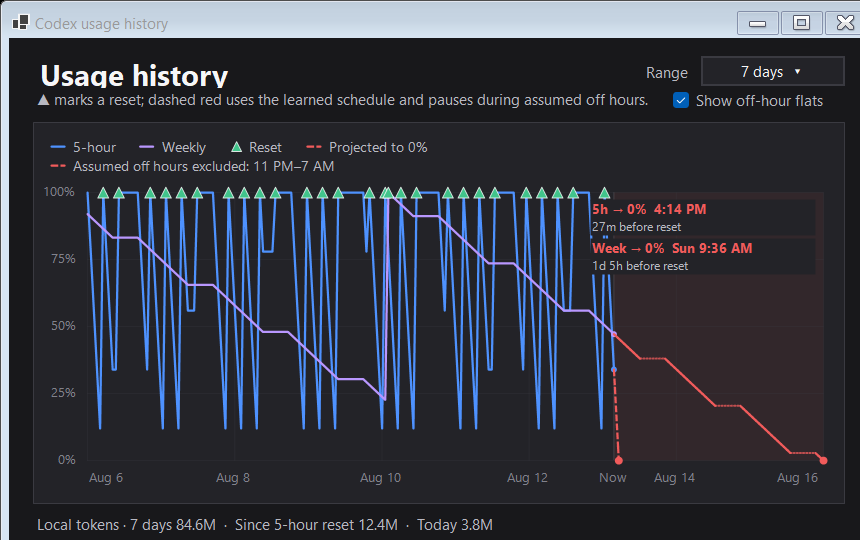
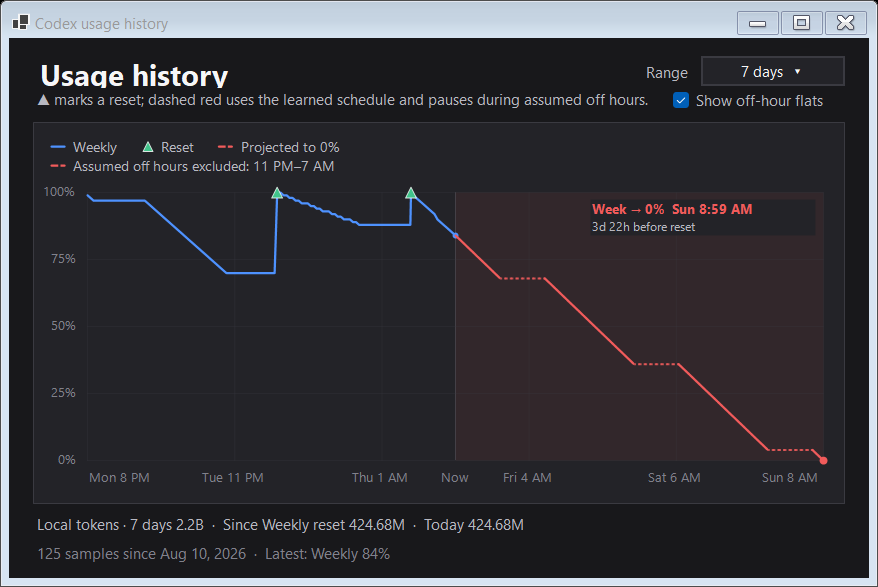
Use realistic usage history preview

diff --git a/src/CodexUsage.App/UI/PreviewRenderer.cs b/src/CodexUsage.App/UI/PreviewRenderer.cs
@@ -47,37 +47,86 @@ internal static class PreviewRenderer
 
         if (args[0].Equals("--render-history", StringComparison.OrdinalIgnoreCase))
         {
-            var historyNow = DateTimeOffset.UtcNow;
-            var start = historyNow.AddDays(-7);
-            var samples = Enumerable.Range(0, (7 * 24) + 1)
-                .Select(index =>
+            var historyNow = DateTimeOffset.Now;
+            var localDate = historyNow.Date;
+            var currentReset = AtLocalTime(localDate.AddHours(7));
+            if (currentReset > historyNow)
+            {
+                currentReset = AtLocalTime(localDate.AddDays(-1).AddHours(7));
+            }
+
+            var previousReset = AtLocalTime(currentReset.Date.AddDays(-1).AddHours(7));
+            var start = historyNow.AddHours(-66);
+            var activitySchedule = new UsageActivitySchedule(
+                Enumerable.Range(7, 15),
+                TimeZoneInfo.Local);
+            var sampleTimes = Enumerable.Range(0, 123)
+                .Select(index => start.AddTicks(
+                    ((historyNow - start).Ticks * index) / 122))
+                .Append(previousReset)
+                .Append(currentReset)
+                .Distinct()
+                .OrderBy(timestamp => timestamp)
+                .ToArray();
+            var availableBeforePreviousReset = activitySchedule
+                .GetActiveDuration(start, previousReset)
+                .TotalHours;
+            var availableBeforeCurrentReset = activitySchedule
+                .GetActiveDuration(previousReset, currentReset)
+                .TotalHours;
+            var activeSinceCurrentReset = activitySchedule
+                .GetActiveDuration(currentReset, historyNow)
+                .TotalHours;
+            availableBeforePreviousReset = Math.Max(1d, availableBeforePreviousReset);
+            availableBeforeCurrentReset = Math.Max(1d, availableBeforeCurrentReset);
+            activeSinceCurrentReset = Math.Max(1d, activeSinceCurrentReset);
+            var samples = sampleTimes
+                .Select(recordedAt =>
                 {
-                    var recordedAt = start.AddHours(index);
-                    var primaryWindowStart = index - (index % 5);
-                    var primaryActiveHours = Enumerable.Range(primaryWindowStart + 1, index - primaryWindowStart)
-                        .Count(hour => IsPreviewActiveHour(start.AddHours(hour)));
-                    var primaryAvailable = 100d - (primaryActiveHours * 22d);
-                    var weeklyWindowStart = index >= 96 ? 96 : 0;
-                    var weeklyActiveHours = Enumerable.Range(weeklyWindowStart + 1, index - weeklyWindowStart)
-                        .Count(hour => IsPreviewActiveHour(start.AddHours(hour)));
-                    var weeklyAvailable = (index >= 96 ? 100d : 92d) - (weeklyActiveHours * 1.1d);
+                    double availablePercent;
+                    DateTimeOffset resetsAt;
+                    if (recordedAt < previousReset)
+                    {
+                        var activeHours = activitySchedule
+                            .GetActiveDuration(start, recordedAt)
+                            .TotalHours;
+                        availablePercent = 99d - (29d * activeHours / availableBeforePreviousReset);
+                        resetsAt = previousReset;
+                    }
+                    else if (recordedAt < currentReset)
+                    {
+                        var activeHours = activitySchedule
+                            .GetActiveDuration(previousReset, recordedAt)
+                            .TotalHours;
+                        availablePercent = 100d - (12d * activeHours / availableBeforeCurrentReset);
+                        resetsAt = previousReset.AddDays(7);
+                    }
+                    else
+                    {
+                        var activeHours = activitySchedule
+                            .GetActiveDuration(currentReset, recordedAt)
+                            .TotalHours;
+                        availablePercent = 100d - (16d * activeHours / activeSinceCurrentReset);
+                        resetsAt = currentReset.AddDays(7);
+                    }
+
                     return new UsageHistorySample(
                         recordedAt,
-                        primaryAvailable,
-                        Math.Clamp(weeklyAvailable, 0, 100),
-                        recordedAt.AddHours(5 - (index % 5)),
-                        start.AddDays(index >= 96 ? 11 : 7),
-                        TimeSpan.FromHours(5),
-                        TimeSpan.FromDays(7));
+                        Math.Clamp(Math.Round(availablePercent), 0, 100),
+                        null,
+                        resetsAt,
+                        null,
+                        TimeSpan.FromDays(7),
+                        null);
                 })
                 .ToArray();
 
             using var historyForm = new HistoryForm(
                 new AppSettings { Theme = ThemeMode.Dark },
                 (_, _, _, _) => new CodexUsage.Tokens.CodexTokenUsageSummary(
-                    84_600_000,
-                    12_400_000,
-                    3_800_000,
+                    2_200_000_000,
+                    424_680_000,
+                    424_680_000,
                     42));
             historyForm.UpdateHistory(samples);
             historyForm.Location = new Point(-10_000, -10_000);
@@ -85,8 +134,8 @@ internal static class PreviewRenderer
             Application.DoEvents();
             Thread.Sleep(20);
             Application.DoEvents();
-            using var historyBitmap = new Bitmap(historyForm.ClientSize.Width, historyForm.ClientSize.Height);
-            historyForm.DrawToBitmap(historyBitmap, new Rectangle(Point.Empty, historyForm.ClientSize));
+            using var historyBitmap = new Bitmap(historyForm.Width, historyForm.Height);
+            historyForm.DrawToBitmap(historyBitmap, new Rectangle(Point.Empty, historyForm.Size));
             historyBitmap.Save(outputPath, ImageFormat.Png);
             historyForm.Hide();
             return true;
@@ -154,9 +203,6 @@ internal static class PreviewRenderer
         return false;
     }
 
-    private static bool IsPreviewActiveHour(DateTimeOffset timestamp)
-    {
-        var localHour = timestamp.ToLocalTime().Hour;
-        return localHour is >= 7 and < 23;
-    }
+    private static DateTimeOffset AtLocalTime(DateTime timestamp)
+        => new(timestamp, TimeZoneInfo.Local.GetUtcOffset(timestamp));
 }
